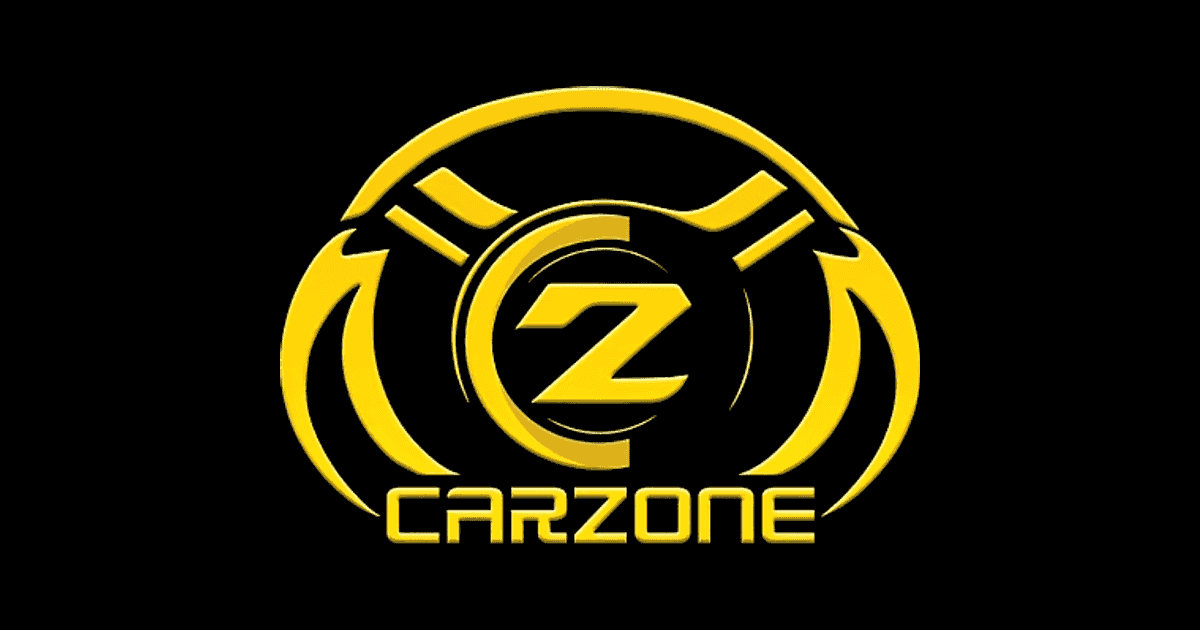
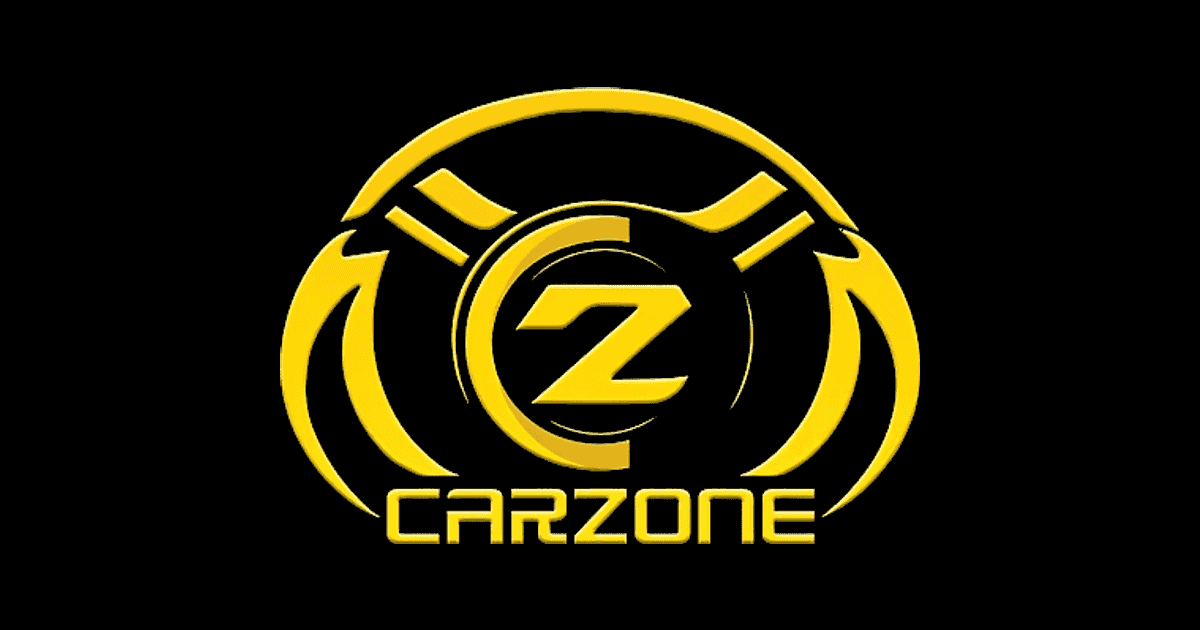
fix(brand): lockup d'en-tete affine (embleme resserre, CARZONE jaune, tagline retiree, transparence nettoyee)
- Regeneration de l'embleme carzone-mark.png et de toutes les declinaisons avec suppression du liseré gris

- Header vitrine : embleme + CARZONE jaune, sans tagline, hauteurs et espacements revus (46/40/36 px selon breakpoint)

- Login/footer/impression conservent le logo complet officiel

- Verification: tsc/build exit 0, captures DPR2 desktop/mobile/login

diff --git a/apps/web/src/components/site/SiteLogo.tsx b/apps/web/src/components/site/SiteLogo.tsx
@@ -2,7 +2,7 @@ import Image from "next/image";
 import Link from "next/link";
 
 /**
- * Logo d'en-tête CARZONE : emblème officiel + lettrage entièrement jaune.
+ * Lockup d'en-tête CARZONE : emblème officiel resserré + lettrage entièrement jaune.
  * Le logo complet officiel (emblème + CARZONE) est utilisé en pied de page,
  * sur l'écran de connexion et dans les documents imprimés.
  */
@@ -10,17 +10,14 @@ export function SiteLogo() {
   return (
     <Link href="/" className="site-logo" aria-label="CARZONE SARL — Concessionnaire automobile multimarques">
       <Image
-        src="/brand/carzone-badge.png"
+        src="/brand/carzone-mark.png"
         alt=""
-        width={44}
-        height={44}
+        width={83}
+        height={46}
         priority
         className="site-logo-mark-img"
       />
-      <span className="site-logo-text">
-        <span className="site-logo-word">CARZONE</span>
-        <span className="site-logo-tagline">Drive your dream</span>
-      </span>
+      <span className="site-logo-word">CARZONE</span>
     </Link>
   );
 }

diff --git a/apps/web/src/app/(site)/site.css b/apps/web/src/app/(site)/site.css
@@ -2506,3 +2506,59 @@
     height: 38px;
   }
 }
+
+/* ——— Lockup d'en-tête affiné (emblème officiel + CARZONE jaune) ——— */
+.site-header-inner {
+  padding: 0.7rem 24px;
+}
+
+.site-logo {
+  align-items: center;
+  gap: 0.7rem;
+}
+
+.site-logo-mark-img {
+  display: block;
+  width: auto;
+  height: 46px;
+  object-fit: contain;
+  flex-shrink: 0;
+}
+
+.site-logo-word {
+  font-size: clamp(1.28rem, 1.5vw, 1.42rem);
+  font-weight: 900;
+  letter-spacing: 0.015em;
+  line-height: 1;
+  color: #f5b301;
+  white-space: nowrap;
+}
+
+.site-logo:hover .site-logo-mark-img {
+  transform: scale(1.03);
+  transition: transform 220ms var(--site-ease);
+}
+
+@media (max-width: 1024px) {
+  .site-logo-mark-img {
+    height: 40px;
+  }
+
+  .site-logo-word {
+    font-size: 1.22rem;
+  }
+}
+
+@media (max-width: 640px) {
+  .site-logo {
+    gap: 0.55rem;
+  }
+
+  .site-logo-mark-img {
+    height: 36px;
+  }
+
+  .site-logo-word {
+    font-size: 1.15rem;
+  }
+}

diff --git a/docs/SITE_VITRINE_PLAN.md b/docs/SITE_VITRINE_PLAN.md
@@ -151,3 +151,9 @@ Chaque page : titre, chapô, sections, CTA, métadonnées SEO localisées (title
 - Application interne : page de connexion, AppShell et documents imprimés (devis, factures, reçus, fiches atelier, fiche technique) utilisent le logo officiel (version fond noir pour l'impression).
 - Ancien logo vectoriel `carzone-logo.svg` supprimé ; copie du fichier source officiel conservée dans `docs/brand/carzone-logo-officiel.png`.
 - Vérifications : endpoints `/brand/carzone-logo.png`, `/icon.png`, `/apple-icon.png`, `/favicon.ico` en 200 ; balises og:image/twitter:image présentes ; captures header desktop/mobile + login.
+
+### Identité visuelle : affinage du lockup d'en-tête (itération 9)
+- Emblème régénéré en version resserrée (`public/brand/carzone-mark.png`) et transparence nettoyée (suppression du liseré/ombre grise issue du logo source).
+- En-tête vitrine : emblème + **CARZONE entièrement jaune**, tagline retirée pour un rendu plus propre, hauteur de header ajustée (46 px desktop / 36 px mobile), espacement et alignement revus.
+- Logo complet officiel conservé en pied de page, connexion, AppShell et documents imprimés ; icône/favicon et OpenGraph régénérés avec la transparence propre.
+- Vérifications : build/tsc exit 0 ; captures DPR2 header desktop, header mobile, login ; aucun débordement.
